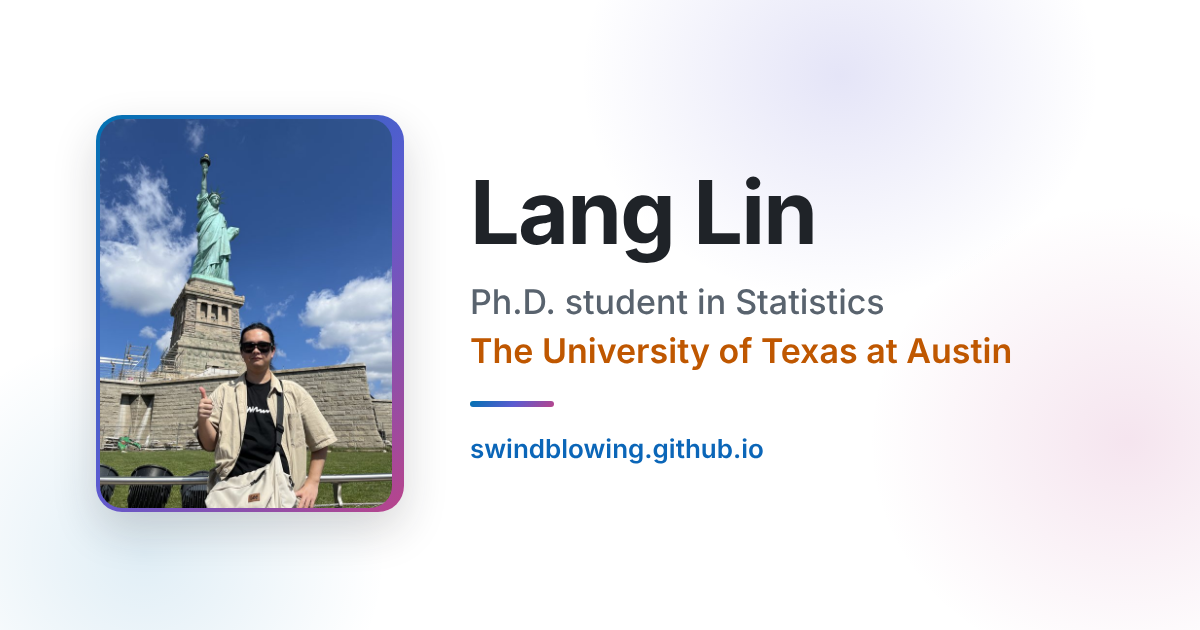
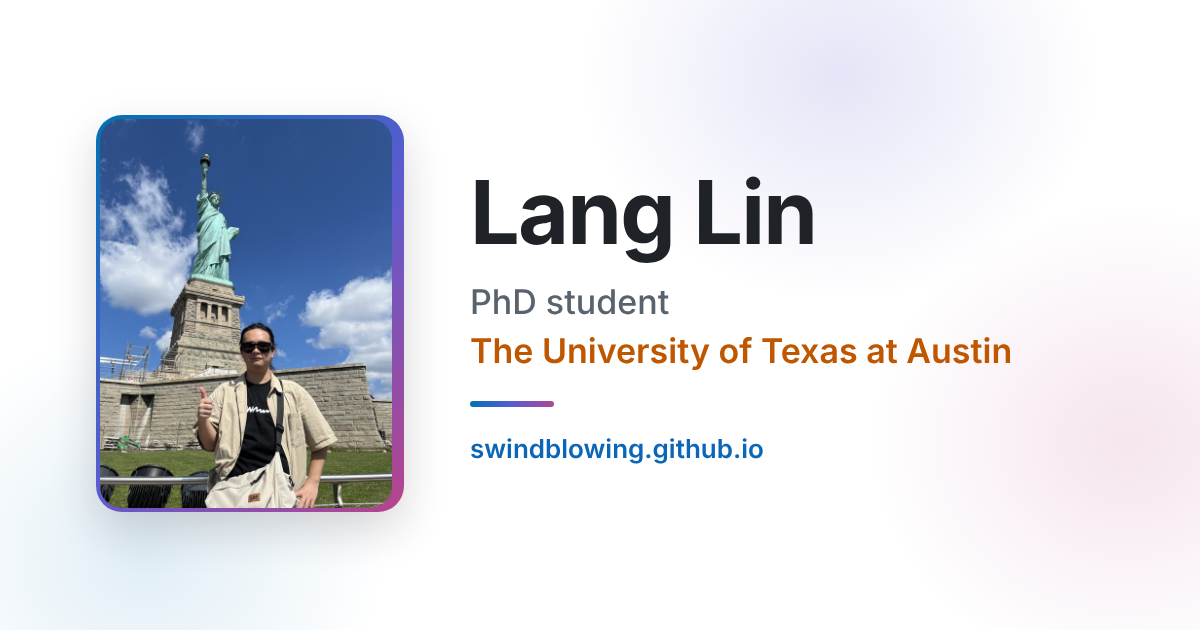
Shorten the affiliation line to "PhD student at UT Austin"
The share card, description and structured data follow.

Claude-Session: https://claude.ai/code/session_01Q4rSR9o2FrDA4FKLbAx7wg

Changed region(s): [[0.4317, 0.4524, 0.74, 0.5127]]

diff --git a/index.html b/index.html
@@ -4,7 +4,7 @@
   <meta charset="utf-8">
   <meta name="viewport" content="width=device-width, initial-scale=1">
   <title>Lang Lin</title>
-  <meta name="description" content="Lang Lin, Ph.D. student in Statistics at The University of Texas at Austin, working on LLMs and generative models: agentic alignment, efficiency and multimodality.">
+  <meta name="description" content="Lang Lin, PhD student at The University of Texas at Austin, working on LLMs and generative models: agentic alignment, efficiency and multimodality.">
   <meta name="author" content="Lang Lin">
   <meta name="keywords" content="Lang Lin, UT Austin, Statistics, large language models, generative models, agentic alignment, efficiency, multimodality">
   <link rel="canonical" href="https://swindblowing.github.io/">
@@ -14,12 +14,12 @@
   <meta name="theme-color" content="#0d1117" media="(prefers-color-scheme: dark)">
   <meta property="og:type" content="profile">
   <meta property="og:title" content="Lang Lin">
-  <meta property="og:description" content="Ph.D. student in Statistics at The University of Texas at Austin.">
+  <meta property="og:description" content="PhD student at The University of Texas at Austin.">
   <meta property="og:url" content="https://swindblowing.github.io/">
   <meta property="og:image" content="https://swindblowing.github.io/images/og.png">
   <meta property="og:image:width" content="1200">
   <meta property="og:image:height" content="630">
-  <meta property="og:image:alt" content="Lang Lin, Ph.D. student in Statistics, The University of Texas at Austin">
+  <meta property="og:image:alt" content="Lang Lin, PhD student at The University of Texas at Austin">
   <meta name="twitter:card" content="summary_large_image">
   <script type="application/ld+json">
   {
@@ -28,7 +28,7 @@
     "name": "Lang Lin",
     "url": "https://swindblowing.github.io/",
     "image": "https://swindblowing.github.io/images/profile.jpg",
-    "jobTitle": "Ph.D. student in Statistics",
+    "jobTitle": "PhD student",
     "affiliation": { "@type": "CollegeOrUniversity", "name": "The University of Texas at Austin" },
     "alumniOf": { "@type": "CollegeOrUniversity", "name": "Nanjing University" },
     "sameAs": [
@@ -74,7 +74,7 @@
       <div class="intro">
         <div class="head">
           <h1>Lang Lin</h1>
-          <p class="affil">Ph.D. student in Statistics, <a class="ut" href="https://www.utexas.edu/" target="_blank" rel="noopener">UT Austin</a></p>
+          <p class="affil">PhD student at <a class="ut" href="https://www.utexas.edu/" target="_blank" rel="noopener">UT Austin</a></p>
         </div>
         <p>
           Welcome to my homepage! I&rsquo;m Lang Lin, a second-year Ph.D. student at
